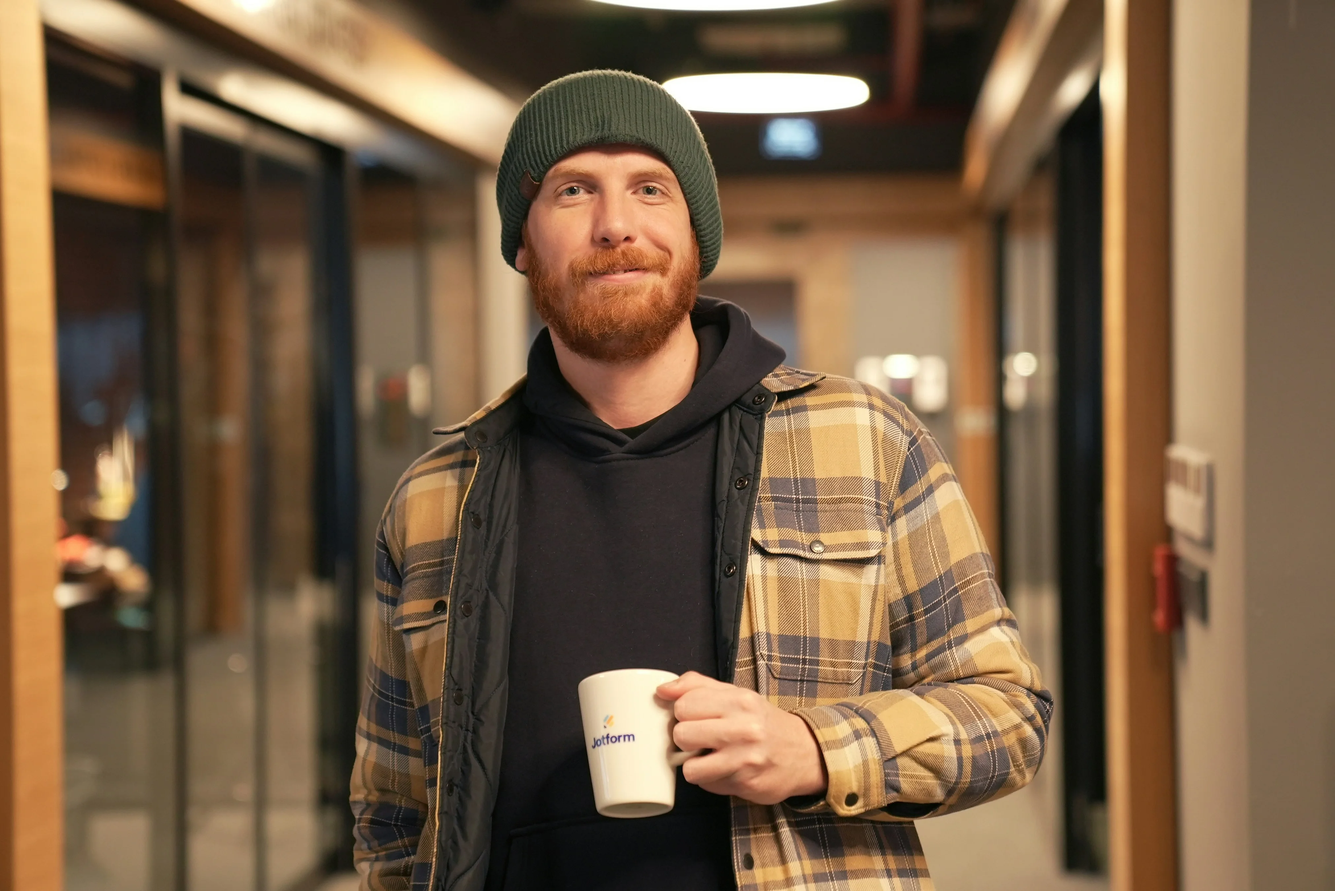
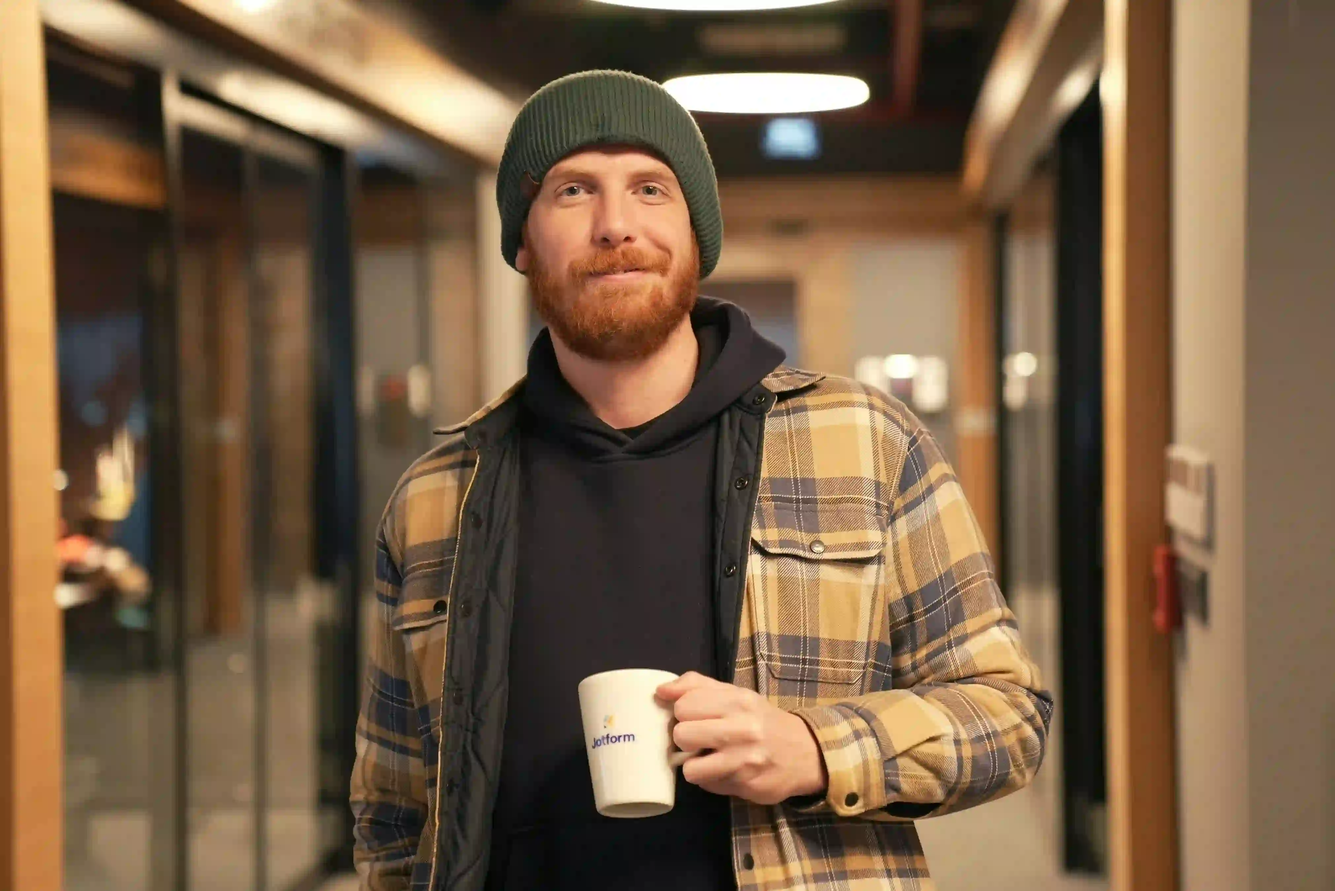
optimized images

Changed region(s): [[0.5608, 0.4354, 0.7789, 0.8086], [0.6543, 0.8086, 0.7789, 0.9019], [0.6543, 0.9641, 0.6855, 0.9952]]

diff --git a/wwr/contact.html b/wwr/contact.html
@@ -67,16 +67,16 @@
                     <fieldset>
                         <legend>Purpose of message:</legend>
                             <label>
-                                <input type="radio" id="purpose" value="General Inquiry"> General Inquiry
+                                <input type="radio" id="purpose-general" value="General Inquiry"> General Inquiry
                             </label>
 
                             <label>
-                            <input type="radio" id="purpose" value="Reservation Question">
+                            <input type="radio" id="purpose-reservation" value="Reservation Question">
                                 Reservation Question
                             </label>
 
                             <label>
-                            <input type="radio" id="purpose" value="Website Suggestion">
+                            <input type="radio" id="purpose-suggestion" value="Website Suggestion">
                                 Website Suggestion
                             </label>
                     </fieldset>
